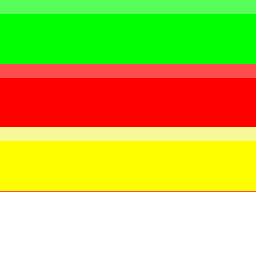
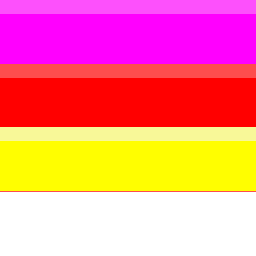
様々なBGMの追加

Changed region(s): [[0.0, 0.0, 1.0, 0.25]]

diff --git a/Project/GameProject/Game/Result.cpp b/Project/GameProject/Game/Result.cpp
@@ -29,7 +29,7 @@ void Result::Render()
 	int Resultscore = Score::s_score;
 	for (int i = 0; i < 8; i++, Resultscore /= 10) {
 		int r = Resultscore % 10;
-		m_scr.SetRect(16 * r, 16, 16 * r + 16, 32);
+		m_scr.SetRect(100 * r, 0, 100 * r + 100, 128);
 		m_scr.SetSize(64, 64);
 		m_scr.SetPos(960 - 64 * i, 1080/2);
 		m_scr.Draw();

diff --git a/Project/GameProject/Game/Game.cpp b/Project/GameProject/Game/Game.cpp
@@ -15,6 +15,7 @@
 Game::Game() : Task((int)ETaskPrio::Game, 0, eType_Game)
 , m_Game_text("C:\\Windows\\Fonts\\msgothic.ttc", 64)
 {
+
 	m_Enemyhyouzi = COPY_RESOURCE("Enemyhyouzi", CImage);
 	m_Starhyouzi = COPY_RESOURCE("Starhyouzi", CImage);
 	m_Flowerhyouzi = COPY_RESOURCE("Flowerhyouzi", CImage);

diff --git a/Project/GameProject/EnemyManager.cpp b/Project/GameProject/EnemyManager.cpp
@@ -8,8 +8,8 @@
 
 EnemyManager::EnemyManager()
 	:Task((int)ETaskPrio::Other, 0, eType_EnemyManager)
-	, enemyTimer(60 * 1.5)
-	, FlowerTimer(60 * 3)
+	, enemyTimer(60 * 0.7)
+	, FlowerTimer(60 * 3.5)
 	, StarTimer(60 * 5)
 	, EnemyLine(0)
 	

diff --git a/Project/GameProject/Title/Load.cpp b/Project/GameProject/Title/Load.cpp
@@ -7,6 +7,7 @@ Load::Load()
 	,LoadCount(60)
 {
 	m_Load = COPY_RESOURCE("Load", CImage);
+	m_Load.SetSize(SCREEN_WIDTH, SCREEN_HEIGHT);
 }
 
 void Load::Update()
